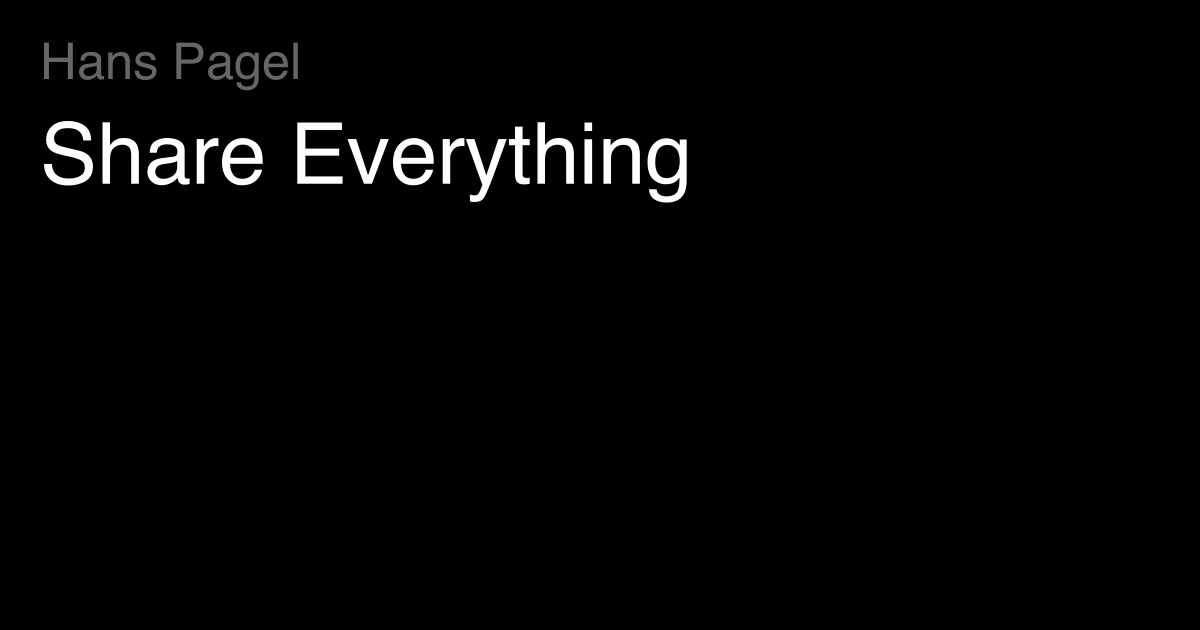
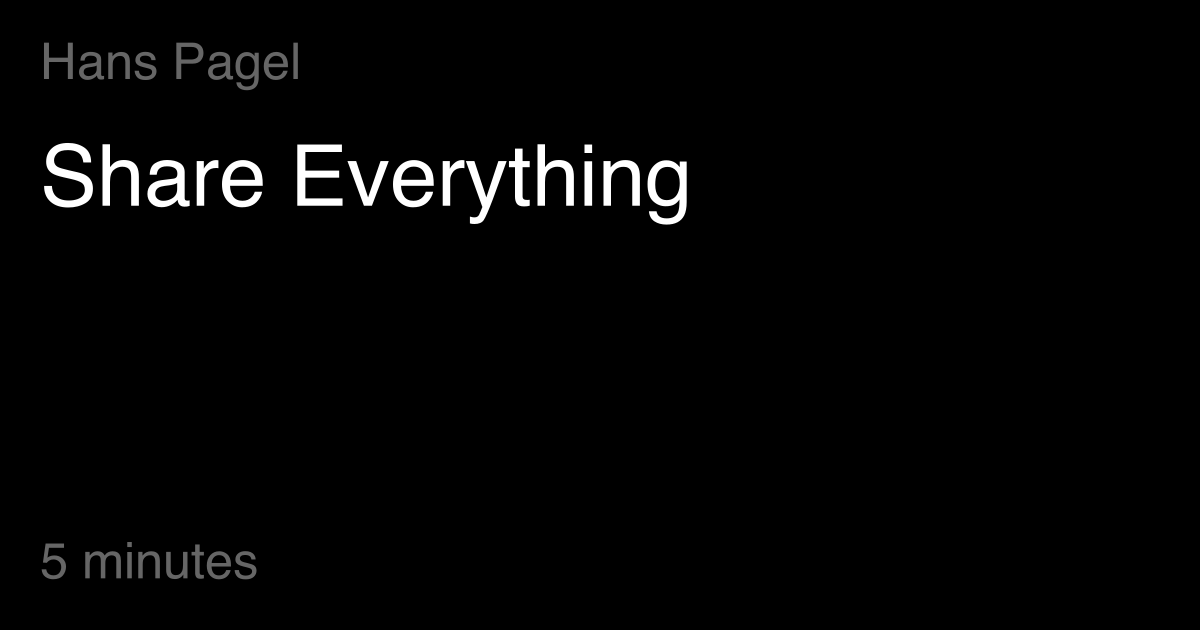
add reading time

Changed region(s): [[0.2467, 0.181, 0.5858, 0.3619], [0.0308, 0.181, 0.2158, 0.3317], [0.0308, 0.8444, 0.2158, 0.9349]]

diff --git a/gridsome.server.js b/gridsome.server.js
@@ -53,7 +53,14 @@ module.exports = function (api) {
     context.textBaseline = 'top'
     context.fillStyle = '#ffffff'
     context.font = 'medium 64pt Inter'
-    wrapText(context, title, border, border + 38 + border, width - border - border, lineHeight);
+    wrapText(context, title, border, border + 60 + border, width - border - border, lineHeight)
+
+    // reading time
+    const readingTime = calculateReadingTime(options.content)
+    context.textBaseline = 'bottom'
+    context.fillStyle = '#666666'
+    context.font = 'medium 38pt Inter'
+    context.fillText(readingTime, border, height - border)
 
     // store
     const buffer = canvas.toBuffer('image/png')
@@ -64,21 +71,36 @@ module.exports = function (api) {
 }
 
 const wrapText = function(context, text, x, y, maxWidth, lineHeight) {
-  var words = text.split(' ');
-  var line = '';
+  var words = text.split(' ')
+  var line = ''
 
   for(var n = 0; n < words.length; n++) {
-    var testLine = line + words[n] + ' ';
-    var metrics = context.measureText(testLine);
-    var testWidth = metrics.width;
+    var testLine = line + words[n] + ' '
+    var metrics = context.measureText(testLine)
+    var testWidth = metrics.width
     if (testWidth > maxWidth && n > 0) {
-      context.fillText(line, x, y);
-      line = words[n] + ' ';
-      y += lineHeight;
+      context.fillText(line, x, y)
+      line = words[n] + ' '
+      y += lineHeight
     }
     else {
-      line = testLine;
+      line = testLine
     }
   }
-  context.fillText(line, x, y);
+  context.fillText(line, x, y)
+}
+
+const calculateReadingTime = function(text) {
+  const wordsPerMinute = 200
+  const textLength = text.split(' ').length
+
+  if(textLength > 0){
+    const value = Math.ceil(textLength / wordsPerMinute)
+
+    if (value === 1) {
+      return `${value} minute`
+    }
+
+    return `${value} minutes`
+  }
 }
